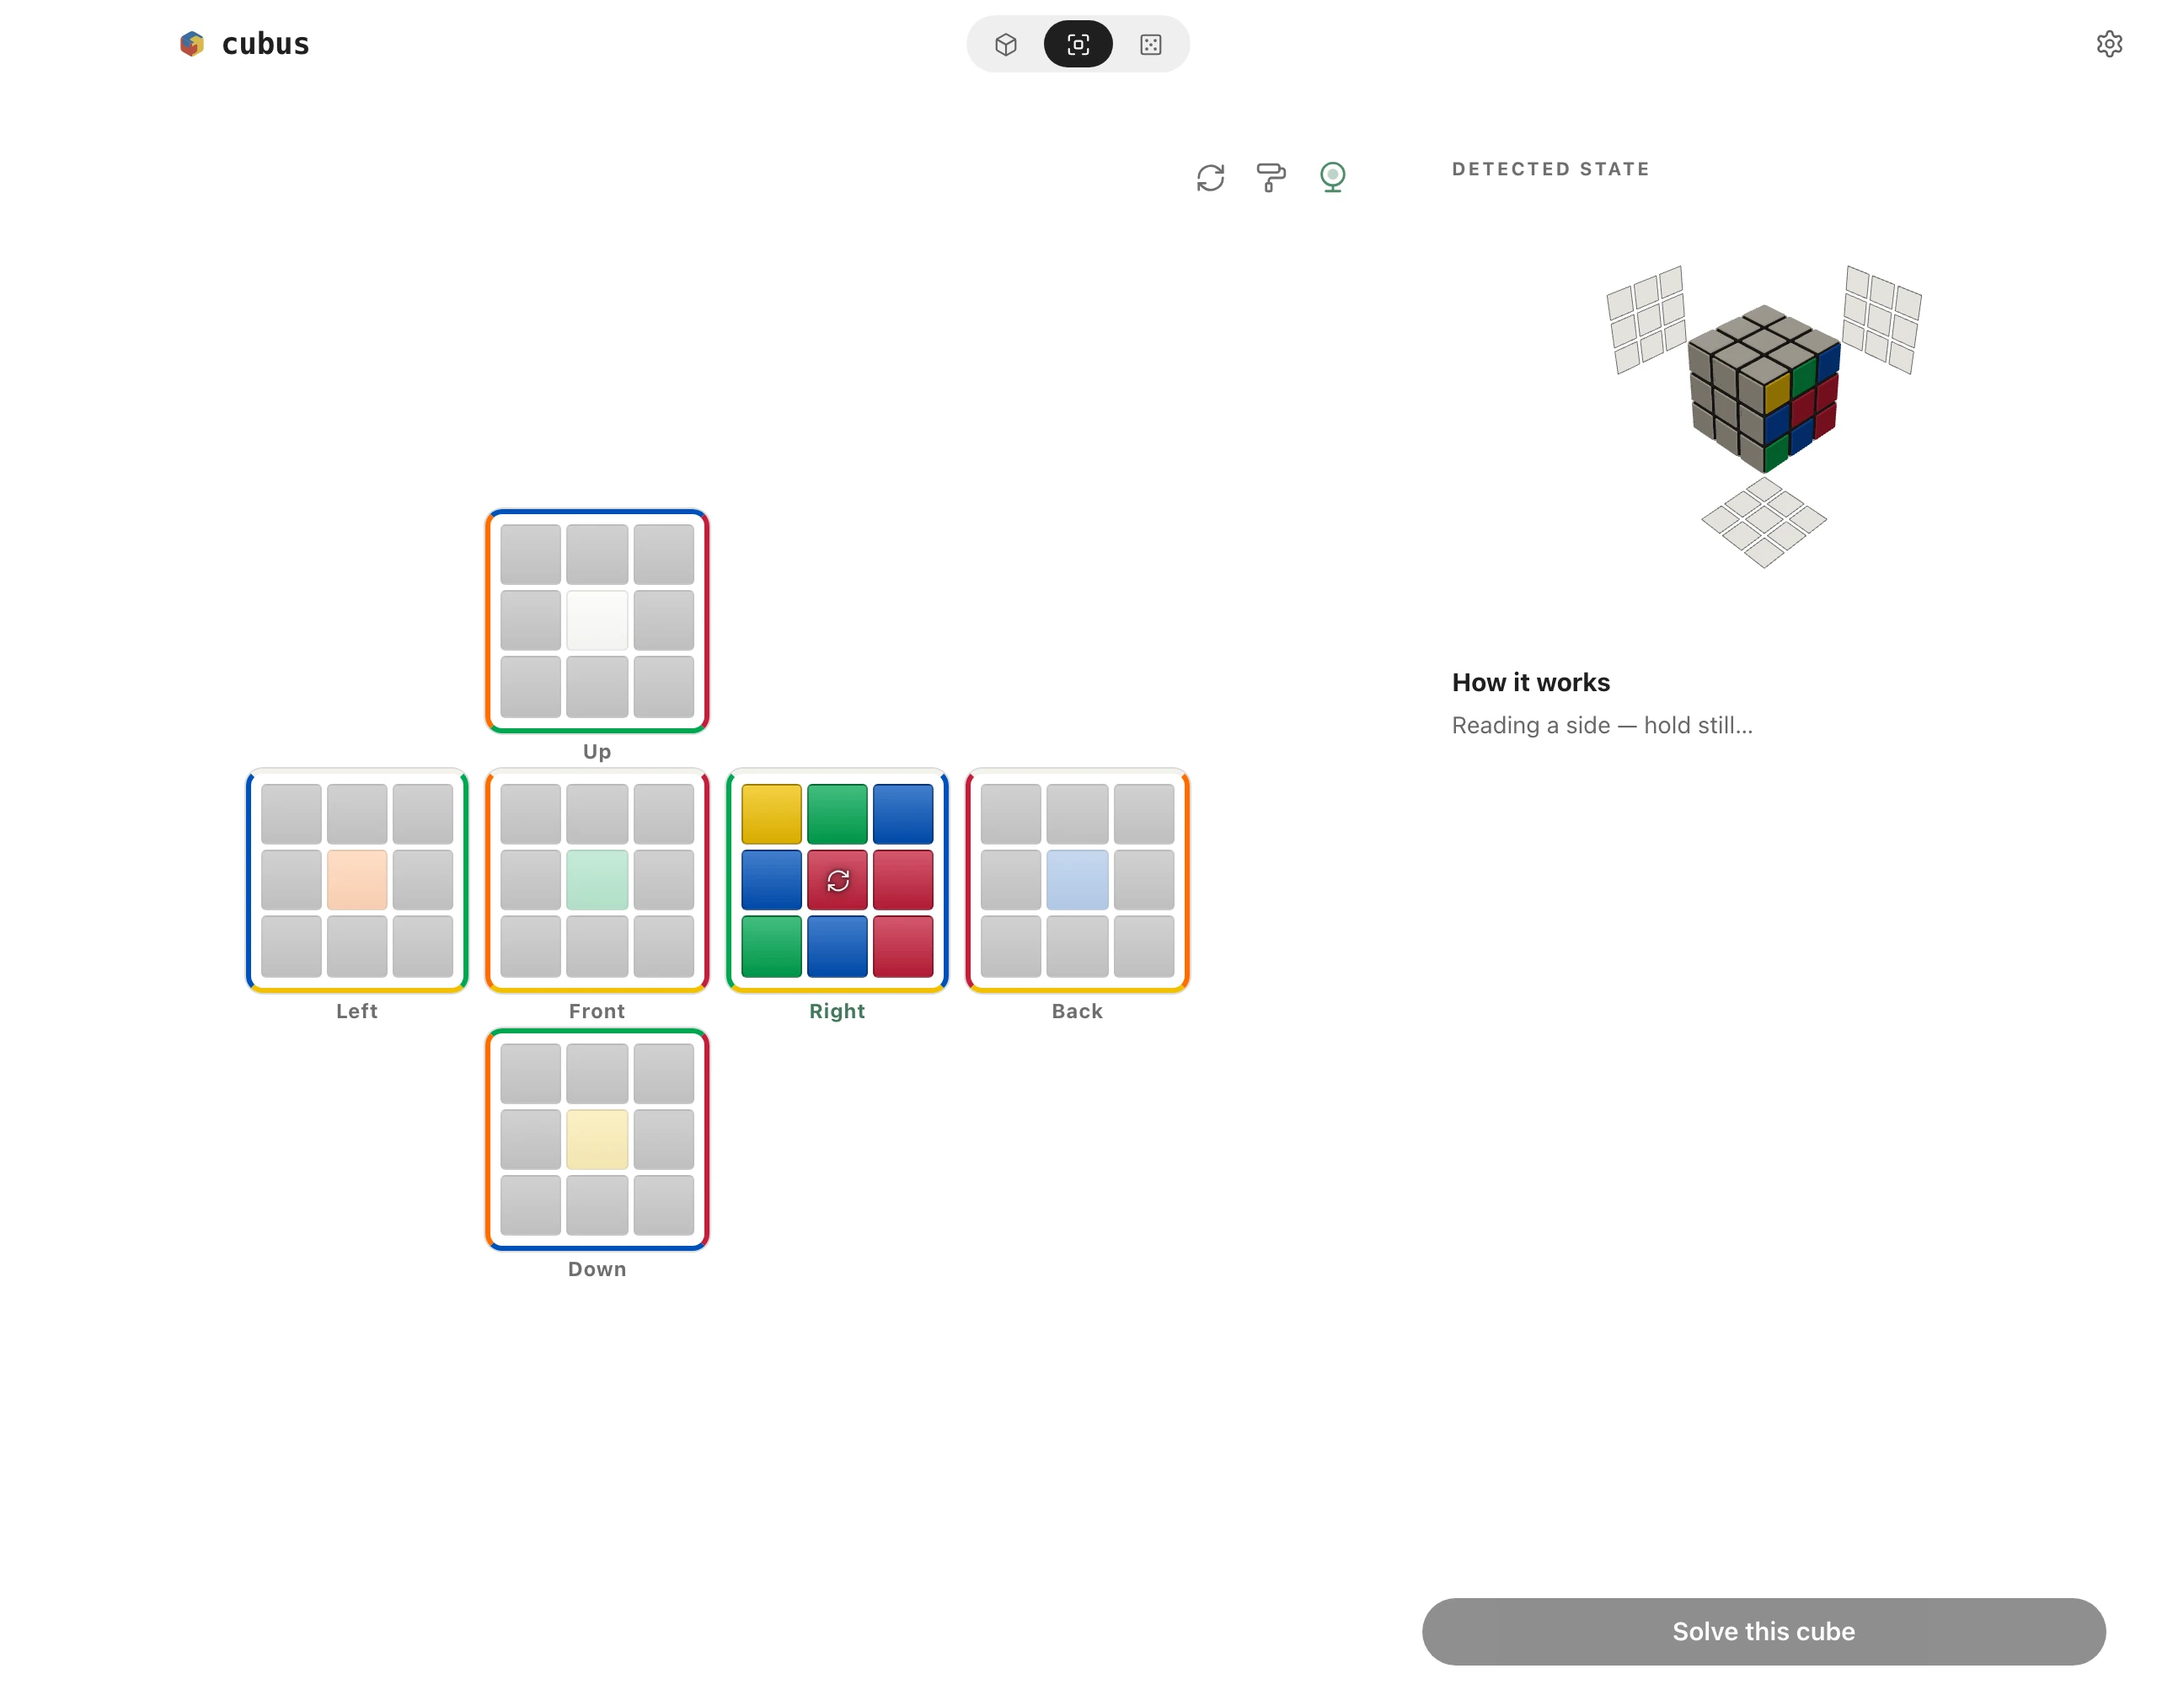
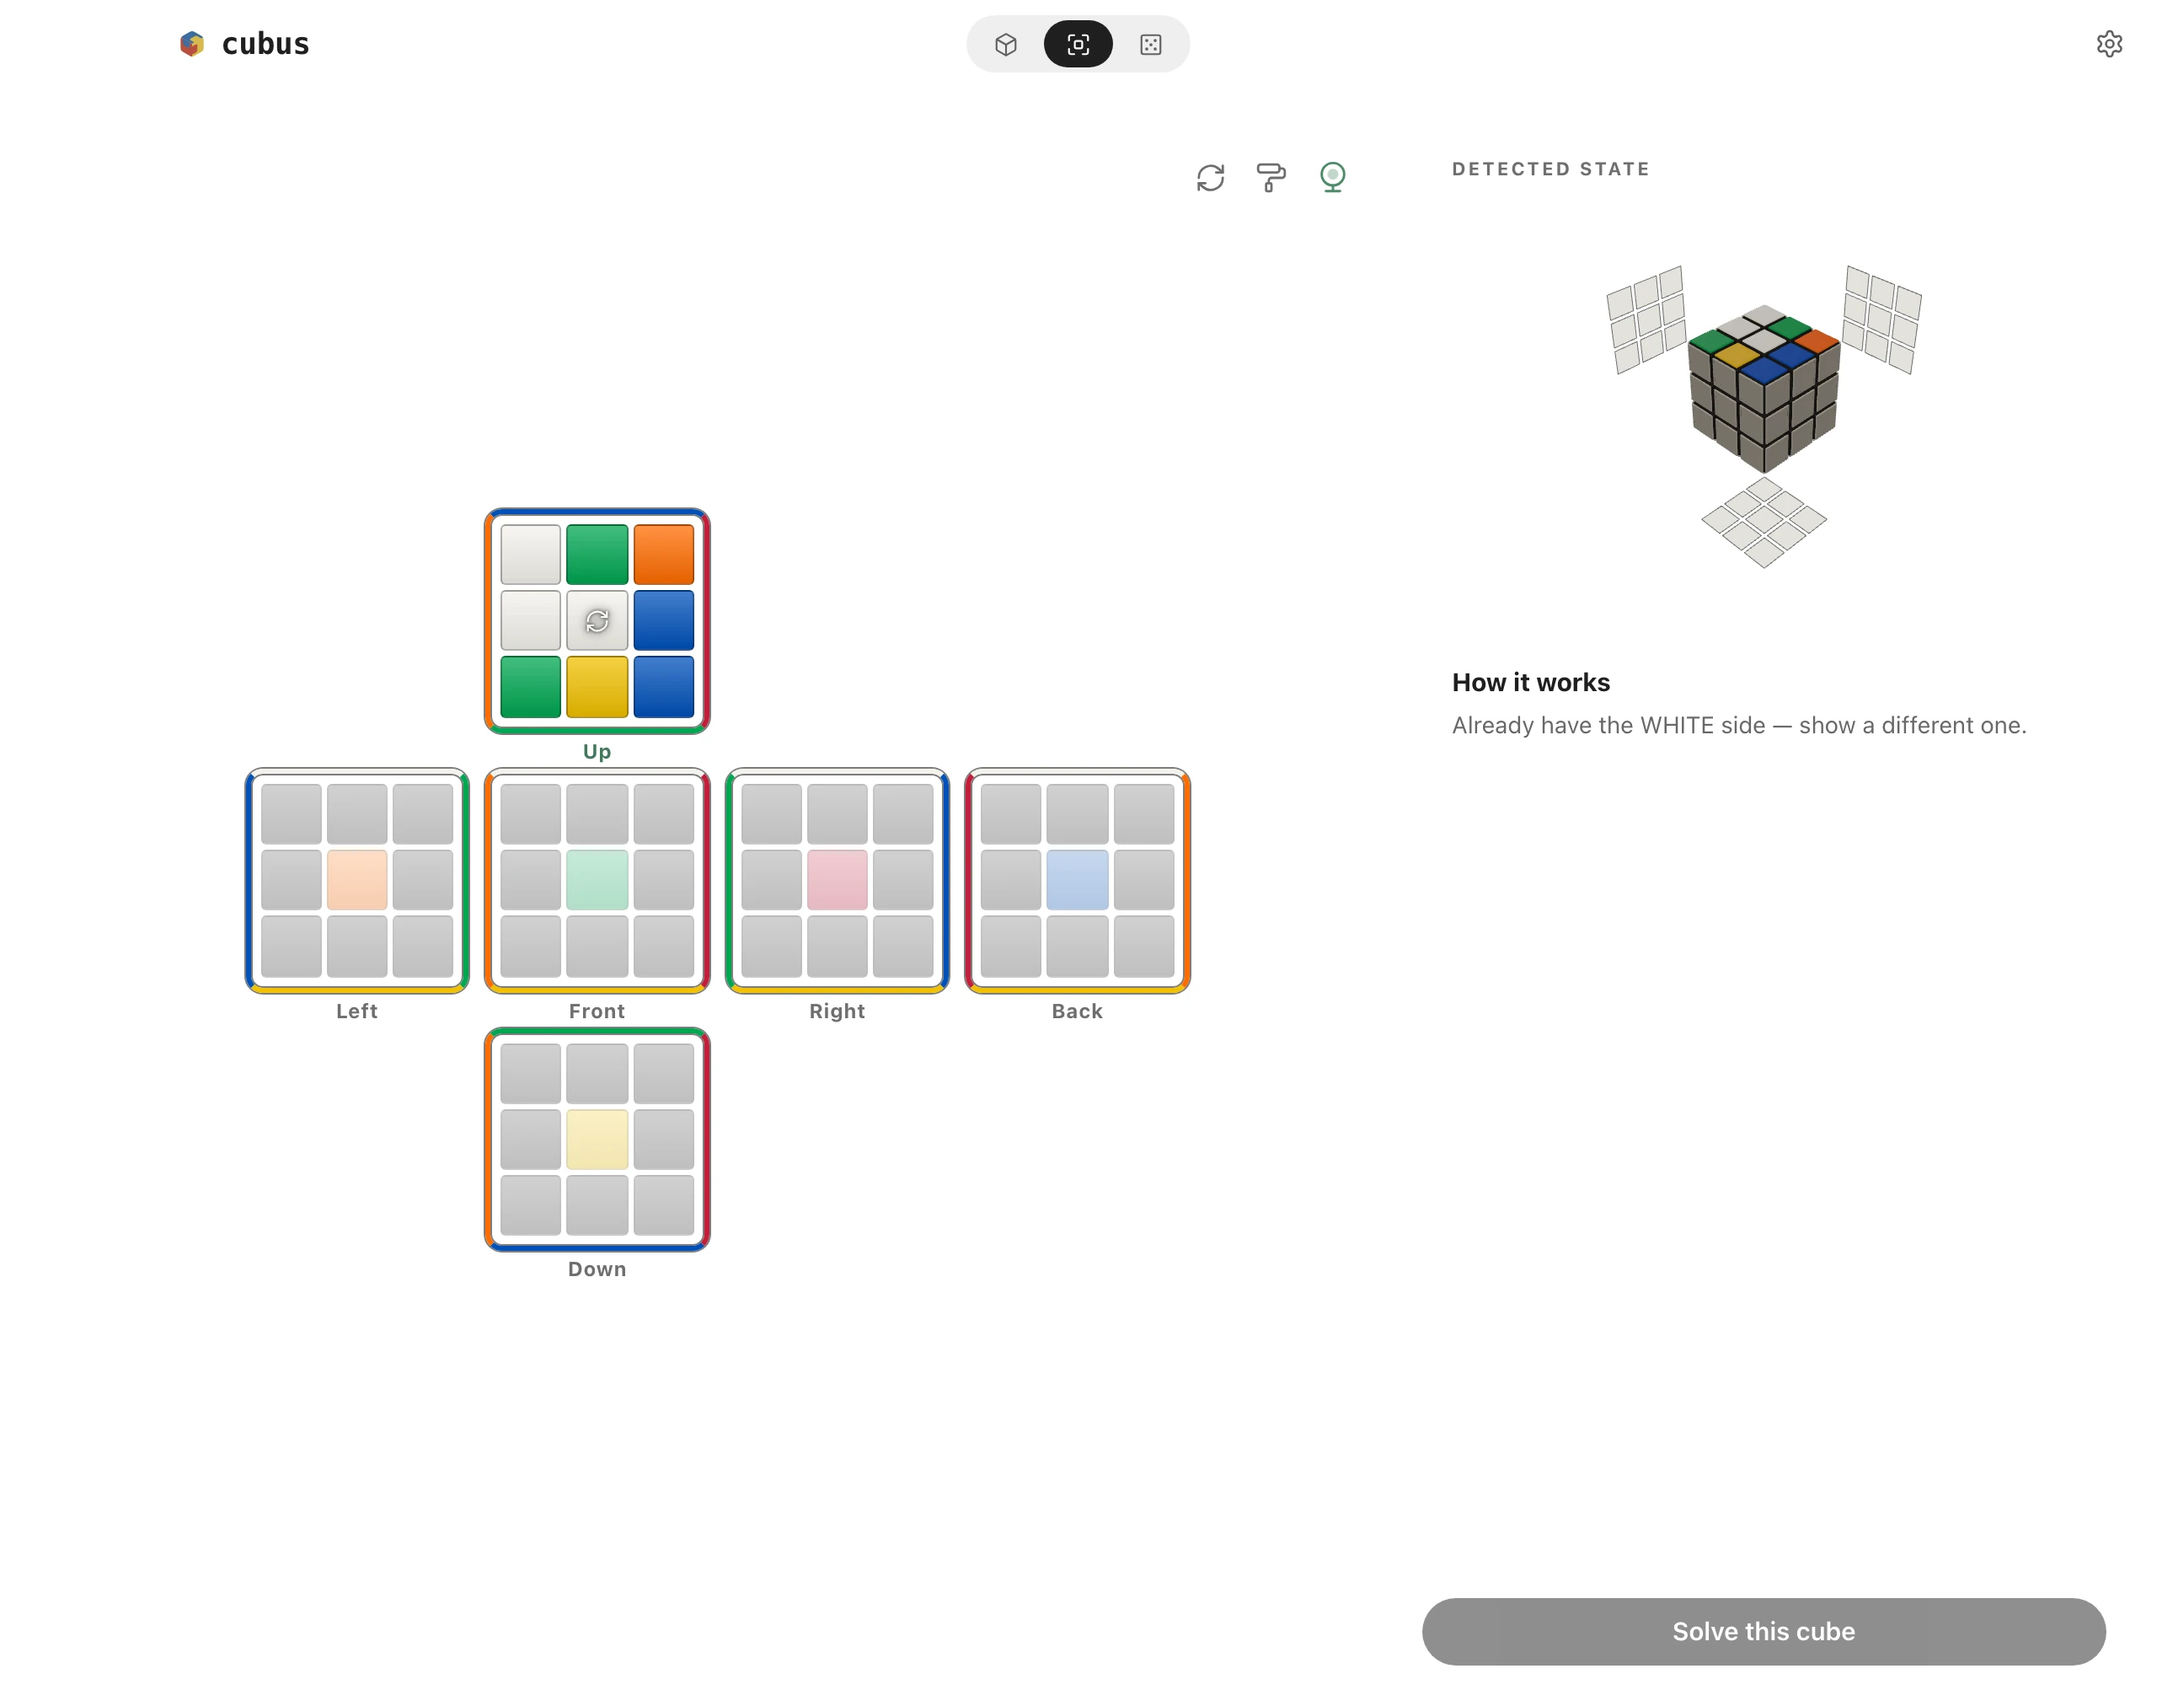
site: the scan shot is taken through a camera the scanner can actually read
The fake camera the screenshot tool feeds Chromium was fixed at `scale=648:720`.
When the golden frame was re-picked as a 720x480 photograph that stretched it
1.67x, the scanner refused every frame and the shot timed out — or, had it not,
would have photographed a scanner that "cannot read", which is a claim about the
app made by the tool.

The feed is now the photo's own shape, each side rounded DOWN to even (yuv420p
needs even dimensions and nothing else changes), and the check is exact rather
than "within a pixel": an odd side rounded up, or an even side changed, means
the feed came from somewhere else. Making the feed and checking it are one
function the site's test drives with a stand-in runner, because a test that
reads the script's source for the right characters is satisfied by a comment.

diff --git a/apps/site/public/tokens.css b/apps/site/public/tokens.css
@@ -15,6 +15,7 @@
   --panel-sunk:    #EFE9DC;  /* titlebar, inset wells */
   --line:          #E2DACA;  /* hairline on panel */
   --line-strong:   #D3C9B4;  /* hairline on desk */
+  --band-edge:     #857C6C;  /* the hairlines either side of a colour band (a scan tile's edges): ≥ 3:1 on --bg, --panel and --panel-sunk, because the band itself can be white on white (tokens.test.mjs) */
   --line-faint:    #F3EEE3;  /* row dividers inside cards */
   --row-sel:       #F6F2E9;  /* selected row inside a card */
 
@@ -239,6 +240,7 @@
   --panel-sunk:    #E9E9E9;
   --line:          #DBDBDB;
   --line-strong:   #CACACA;
+  --band-edge:     #7D7D7D;
   --line-faint:    #EEEEEE;
   --row-sel:       #F2F2F2;
 
@@ -283,6 +285,7 @@
   --panel-sunk:    #1E1B16;
   --line:          #332E26;
   --line-strong:   #3E382E;
+  --band-edge:     #8A8174;
   --line-faint:    #2A251F;
   --row-sel:       #2A251F;
 
@@ -336,7 +339,7 @@
 @media (prefers-color-scheme: dark) {
   :root:not([data-theme="cream"]):not([data-theme="white"]) {
     --desk:#14120E; --bg:#1B1814; --panel:#232019; --panel-sunk:#1E1B16;
-    --line:#332E26; --line-strong:#3E382E; --line-faint:#2A251F; --row-sel:#2A251F;
+    --line:#332E26; --line-strong:#3E382E; --line-faint:#2A251F; --row-sel:#2A251F; --band-edge:#8A8174;
     --ink:#EDE7DA; --ink-2:#D2C9B8; --ink-3:#B5AC9C; --ink-4:#978E80; --ink-5:#9A9184; --ink-6:#5C5449;
     --invert-bg:#EDE7DA; --invert-fg:#1B1814; --on-ink-dim:#6B6154; --on-ink-2:#3A342B;
     --track:#3E382E; --bar:#5C5449;
